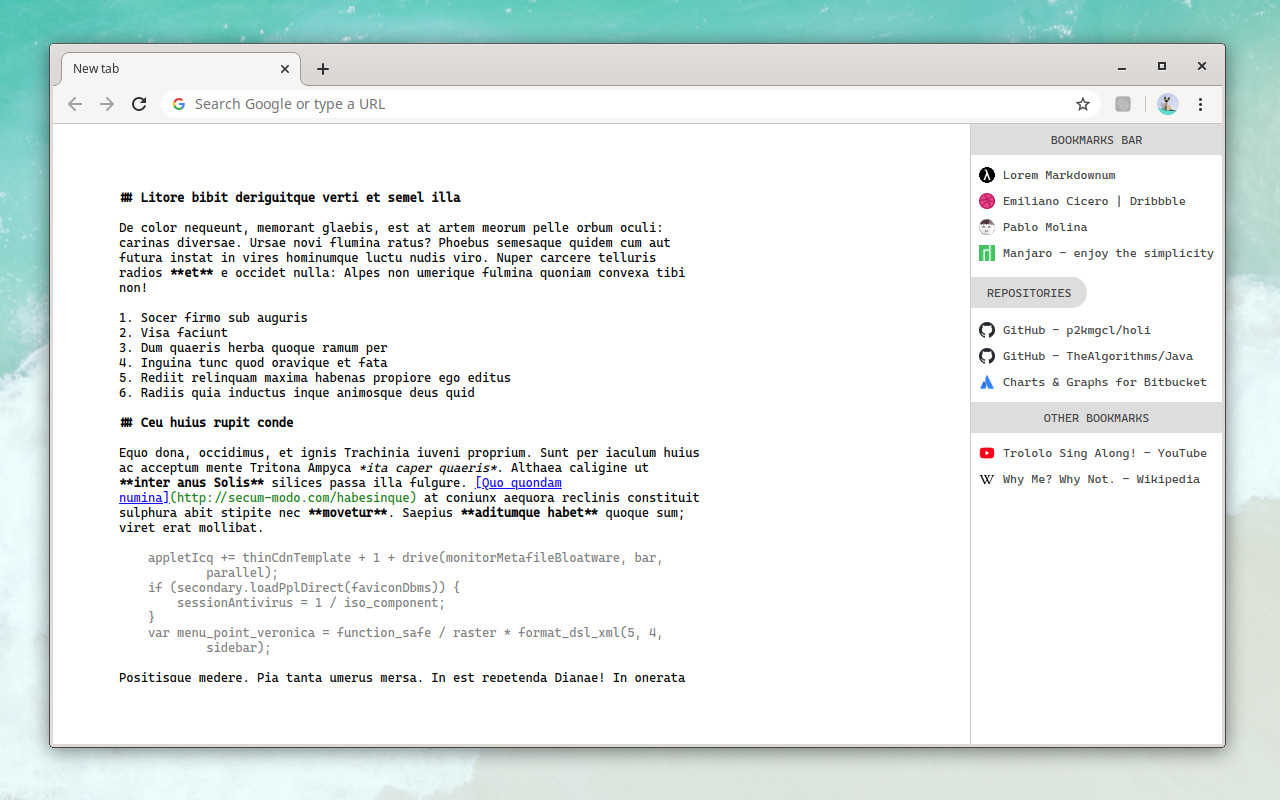
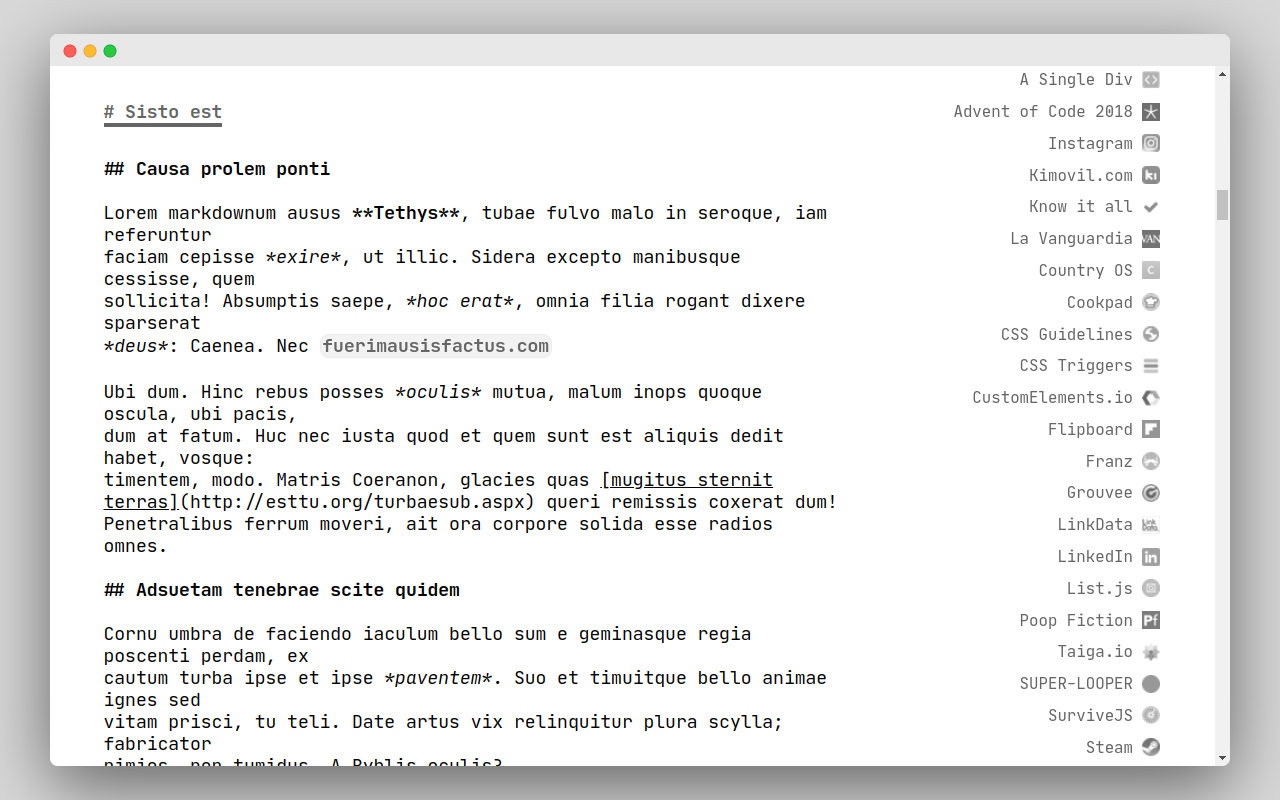
Update documentation and screenshots

diff --git a/README.md b/README.md
@@ -1,9 +1,11 @@
 # 👋 Holi
 
-![Main application](https://raw.githubusercontent.com/p2kmgcl/holi/master/assets/screenshot-a.jpg)
+![Main application](https://raw.githubusercontent.com/p2kmgcl/holi/master/assets/screenshot-b.jpg)
 
 ## Features
 
 - Write any text you want in plain text
 - Markdown compatible highlights
+- Synchronize your noes with all your browsers
 - See your bookmarks on a nice sidebar
+- Automatic dark theme
